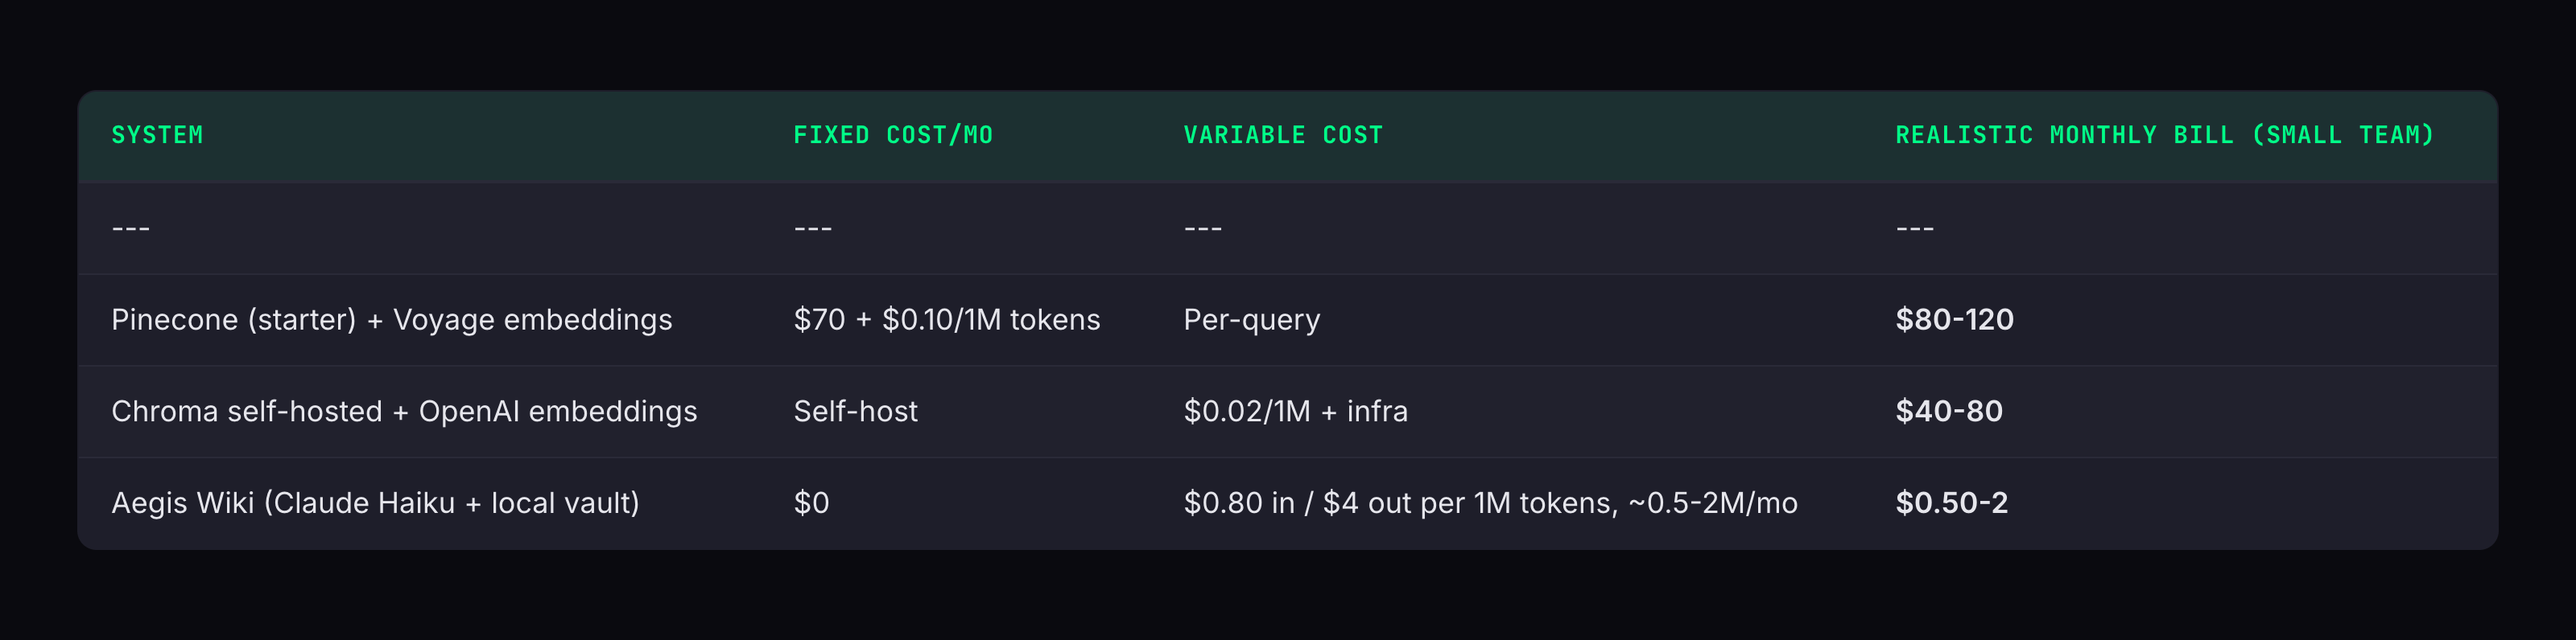
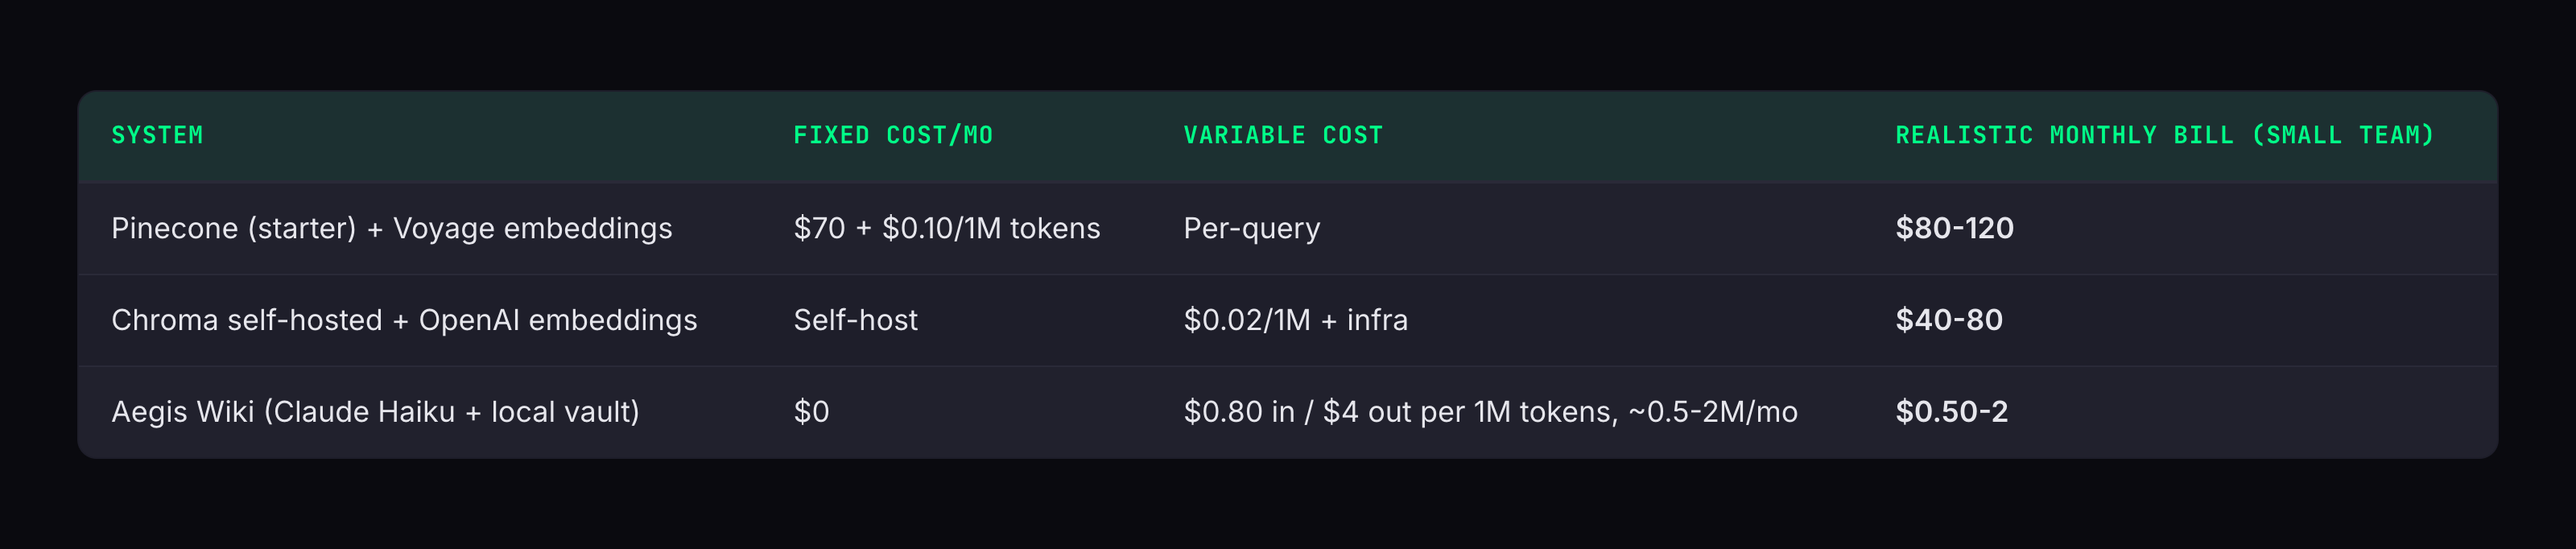
docs(articles): restore tables as PNGs in articles #5, #6, #7
Also fixes a separator-row leak in the renderer that caused a stray '---'
row to render as a data row on every table, and re-renders the earlier
articles' PNGs with the fix.

diff --git a/articles/07-multi-account-guardrails/article.md b/articles/07-multi-account-guardrails/article.md
@@ -100,42 +100,7 @@ These three become inputs to the risk assessment.
 
 Here's the master table Aegis Layer 4 enforces. Each row: an action type, its default risk tier, an AWS-specific example, and the automation behavior.
 
-[IMAGE: risk-tier-matrix.png — 20-row color-coded matrix showing Action Type, Risk Tier (NONE/LOW/MEDIUM/HIGH/BLOCKED), AWS example, and automation behavior. Render as 1600×900 PNG for Medium. Until rendered, the grouped bullets below carry the same information.]
-
-**NONE tier — auto, no approval, no dry-run:**
-
-- **CloudWatch log query** — `filter-log-events` on `/aws/eks/cluster-name`
-- **CloudWatch metric read** — `get-metric-statistics` on EKS pod metrics
-- **Describe resources** — `describe-db-instances`, `describe-clusters`
-- **kubectl get / logs / describe** — e.g. `kubectl get pods -n auth`
-
-**LOW tier — auto-approve with dry-run; post-verify:**
-
-- **kubectl rollout restart (spoke)** — `kubectl rollout restart deploy/auth-service` in a spoke
-- **kubectl scale up (spoke)** — `kubectl scale --replicas=7` (from 3) in a spoke
-
-**MEDIUM tier — Slack approval required:**
-
-- **kubectl scale down (spoke)** — `kubectl scale --replicas=1` (from 5) in a spoke
-- **kubectl delete pod (spoke)** — `kubectl delete pod auth-xxxx`
-- **kubectl rollout undo (spoke)** — roll back to previous ReplicaSet
-
-**HIGH tier — manual only, no AI execution ever:**
-
-- **Terraform apply (any account)** — `terraform apply` on any state file
-- **kubectl delete (non-pod)** — `kubectl delete deployment auth-service`
-- **RDS stop / modify** — `aws rds modify-db-instance`
-- **Any action in hub account** — anything touching `111111111111`, regardless of category
-- **Security Group rule modify** — `ec2 authorize-security-group-ingress`
-
-**BLOCKED tier — hard-coded, never automated:**
-
-- **Any action in security account** — anything touching `555555555555`
-- **IAM policy modify** — `iam put-role-policy`, `iam attach-role-policy`. AI literally cannot attempt this.
-- **S3 public-access config change** — `s3api put-public-access-block`
-- **S3 bucket policy modify** — `s3api put-bucket-policy`
-- **Cross-account IAM role change** — `iam update-assume-role-policy`
-- **KMS key policy modify** — `kms put-key-policy`
+[IMAGE: assets/02-risk-tier-matrix.png — 20-row risk tier matrix mapping specific AWS/kubectl/Terraform actions (log queries, describe calls, kubectl scale/rollout/delete, terraform apply, IAM/S3/KMS modifications, hub/security account access) to five risk tiers (NONE, LOW, MEDIUM, HIGH, BLOCKED) with concrete automation behavior per row — from auto-execute with no approval to hard-coded block where the AI literally cannot emit the action]
 
 A few things to notice:
 
@@ -422,20 +387,7 @@ Here's the kind of story that happens at 09:15 KST on a Monday — the same Mond
 
 ### Timeline
 
-- **09:12:04** — SigNoz fires alert: `auth-service` P99 > 1000ms (threshold 500ms)
-- **09:12:08** — Aegis orchestrator picks up alert, opens investigation `INV-2026-0419-00017`
-- **09:12:10** — Wiki context fetched: 3 pages on auth-service scaling
-- **09:12:12** — Pattern analyzer returns: "Pattern A match — Mon 9AM cold-start, 26 prior occurrences"
-- **09:12:15** — Claude (Sonnet) proposes: scale 3 -> 5 replicas, pre-warm connection pool
-- **09:12:16** — Guardrails engine evaluates: target account `333333333333` (spoke-prod, permitted); action `kubectl_scale` up classifies LOW; account adjustment keeps it LOW (no upgrade); rollback plan provided.
-- **09:12:17** — Pre-validation: dry-run SAFE, IAM simulator ALLOWED, OPA ALLOWED
-- **09:12:17** — Approval: auto-approved (LOW tier, all checks passed)
-- **09:12:18** — Execution: `kubectl scale deployment auth-service --replicas=5`
-- **09:12:19** — Execution succeeded; rollback window armed until 09:27:18
-- **09:12:20** — Post-validation watch started, 10-minute window
-- **09:15:00** — P99 down to 640ms (improving)
-- **09:17:00** — P99 down to 280ms (target reached)
-- **09:22:30** — Post-validation: SUCCESS. Audit record finalized.
+[IMAGE: assets/03-investigation-timeline.png — 18-row timeline table of a Monday 09:12 KST investigation showing every step second-by-second: SigNoz alert fires, wiki context fetched, pattern analyzer match, Claude proposes scale 3→5 + pool pre-warm, guardrails classify LOW, pre-validation passes (dry-run/IAM simulator/OPA), auto-approval, kubectl execution, rollback window armed, post-validation watch, P99 recovers to 280ms, audit record finalized — total AI-operator time 13 seconds, zero human involvement]
 
 Total AI-operator time from alert to mitigation: **13 seconds.**
 Human involvement: zero (because the action was LOW tier in a spoke account, with a valid rollback).
@@ -502,15 +454,7 @@ Four layers. All four have to fail. In practice, the failure mode is "the AI pic
 
 All paths relative to the [JIUNG9/aegis](https://github.com/JIUNG9/aegis) repo. Layer 4 files are planned — coming in Layer 4 per the roadmap.
 
-- **[`apps/ai-engine/guardrails/engine.py`](https://github.com/JIUNG9/aegis)** — Main guardrails orchestrator
-- **[`apps/ai-engine/guardrails/risk_assessor.py`](https://github.com/JIUNG9/aegis)** — Classifies actions into NONE/LOW/MEDIUM/HIGH/BLOCKED
-- **[`apps/ai-engine/guardrails/observation_mode.py`](https://github.com/JIUNG9/aegis)** — Trust-building ladder (Observe / Recommend / Low-Auto / Full-Auto)
-- **[`apps/ai-engine/guardrails/approval_gate.py`](https://github.com/JIUNG9/aegis)** — Slack approval integration for MEDIUM tier
-- **[`apps/ai-engine/guardrails/pre_validator.py`](https://github.com/JIUNG9/aegis)** — Dry-run, IAM simulator, OPA checks
-- **[`apps/ai-engine/guardrails/post_validator.py`](https://github.com/JIUNG9/aegis)** — Metric watch + auto-rollback trigger
-- **[`apps/ai-engine/guardrails/rollback_manager.py`](https://github.com/JIUNG9/aegis)** — Enforces rollback plan; arms rollback window
-- **[`apps/ai-engine/guardrails/audit_logger.py`](https://github.com/JIUNG9/aegis)** — SOC2-compliant decision record writer
-- **[`apps/ai-engine/guardrails/policies/`](https://github.com/JIUNG9/aegis)** — OPA/Rego policies (versioned)
+[IMAGE: assets/04-guardrails-files.png — nine-row file/role table of the Layer 4 guardrails package: engine.py (orchestrator), risk_assessor.py (NONE/LOW/MEDIUM/HIGH/BLOCKED classifier), observation_mode.py (trust-building ladder), approval_gate.py (Slack approvals), pre_validator.py (dry-run/IAM/OPA), post_validator.py (metric watch + rollback trigger), rollback_manager.py, audit_logger.py (SOC2 records), policies/ (OPA/Rego)]
 
 Environment variables the guardrails engine expects:
 

diff --git a/articles/06-monday-patterns/article.md b/articles/06-monday-patterns/article.md
@@ -196,33 +196,15 @@ Here are three that came out of the analyzer — genericized, but the numbers ar
 
 ### Pattern A — "Auth service latency spikes Monday 9-11 AM"
 
-- **Service** — `auth-service`
-- **Window** — Mon 09:00-11:00 KST
-- **Baseline P99** — 180 ms
-- **Hotspot P99** — 1,240 ms
-- **Event count over 180d** — 45 (across ~26 Mondays)
-- **Root cause (suspected)** — Connection pool cold-start + 4x login throughput
-- **Suggested action** — Pre-warm pool at 08:45; pre-scale 3 -> 5 replicas at 08:30
+[IMAGE: assets/02-pattern-a-auth-latency.png — seven-row table describing Pattern A on auth-service: Mon 09:00-11:00 KST window, baseline P99 180ms vs hotspot P99 1,240ms, 45 events across ~26 Mondays in 180d, connection pool cold-start root cause, pre-warm and pre-scale 3→5 action]
 
 ### Pattern B — "Batch job at 02:00 correlates with DB write amplification"
 
-- **Service** — `analytics-worker` -> `postgres-primary`
-- **Window** — Mon 02:00-04:00 KST
-- **Baseline write IOPS** — 2,100
-- **Hotspot write IOPS** — 14,800
-- **Event count over 180d** — 22 (all Mondays; no misses)
-- **Root cause** — Weekly reconcile job rewrites 3 materialized views
-- **Suggested action** — Stagger view rebuilds; move 1 of 3 to Sunday 23:00
+[IMAGE: assets/03-pattern-b-batch-iops.png — seven-row table describing Pattern B on analytics-worker → postgres-primary: Mon 02:00-04:00 KST window, baseline 2,100 write IOPS vs hotspot 14,800, 22 events (all Mondays), weekly reconcile job rebuilding 3 materialized views, stagger rebuilds action]
 
 ### Pattern C — "Traffic drops 70% between 22:00-06:00 KST"
 
-- **Service** — all user-facing
-- **Window** — Daily 22:00-06:00 KST
-- **Peak RPS** — 3,400
-- **Trough RPS** — 1,020
-- **Pattern type** — `idle_window`
-- **Suggested action** — Scheduled rightsizing — drop replica count 40% overnight
-- **Estimated savings** — ~$3,000/month across all spoke accounts
+[IMAGE: assets/04-pattern-c-idle-window.png — seven-row table describing Pattern C idle window on all user-facing services: daily 22:00-06:00 KST window, peak 3,400 RPS vs trough 1,020 RPS, scheduled rightsizing by dropping replicas 40% overnight, ~$3,000/month savings]
 
 Pattern C is the one that makes finance teams smile. The other two are the ones that make on-call engineers smile.
 
@@ -276,10 +258,7 @@ At Coupang, handling 1M+ daily commerce transactions, we learned this the hard w
 
 Six months after shipping the analyzer (well, after I started running it by hand — the full v4.0 Layer 2 is still rolling out), the team's FinOps summary looked like:
 
-- **Monday morning incidents** — from ~27/month to ~6/month. Delta: -78%.
-- **Mean time to mitigation (MTTM) on Mon 9 AM** — from 18 min to 4 min (pre-positioned). Delta: -78%.
-- **Overnight compute cost (22:00-06:00)** — from $4,200/mo to $1,200/mo. Delta: -$3,000/mo.
-- **Auto-scaling "surprise" events** — from frequent to near zero.
+[IMAGE: assets/05-finops-results.png — four-row before/after FinOps results table showing Monday morning incidents (27→6/mo, -78%), MTTM on Mon 9AM (18→4 min, -78%), overnight compute cost ($4,200→$1,200/mo, -$3,000/mo), and auto-scaling surprise events (frequent → near zero)]
 
 The ~$3K/month saving is across our non-production spoke account plus two smaller production services we felt confident scheduling. We haven't done it everywhere — some workloads genuinely don't want to be rightsized on a cron, and the AI's recommendations respect that.
 
@@ -328,11 +307,7 @@ For the AI-cost nerds: this is also the difference between burning Sonnet tokens
 
 The files involved (paths are relative to the [JIUNG9/aegis](https://github.com/JIUNG9/aegis) repo; Layer 2 files are planned — coming in Layer 2 per the roadmap):
 
-- **[`apps/ai-engine/connectors/signoz_client.py`](https://github.com/JIUNG9/aegis)** — HTTP API client for logs, metrics, traces, alerts
-- **[`apps/ai-engine/connectors/alert_fetcher.py`](https://github.com/JIUNG9/aegis)** — Firing alert pull with filters
-- **[`apps/ai-engine/connectors/metric_fetcher.py`](https://github.com/JIUNG9/aegis)** — PromQL range queries
-- **[`apps/ai-engine/connectors/pattern_analyzer.py`](https://github.com/JIUNG9/aegis)** — Time-of-week bucketing + correlation
-- **[`apps/ai-engine/agents/orchestrator.py`](https://github.com/JIUNG9/aegis)** — Wires patterns into Claude's investigation context
+[IMAGE: assets/06-connector-files.png — five-row file/role table listing the Layer 2 SigNoz connector components: signoz_client.py (HTTP API client), alert_fetcher.py (firing alerts), metric_fetcher.py (PromQL range queries), pattern_analyzer.py (time-of-week bucketing), orchestrator.py (wires patterns into Claude)]
 
 Environment variables the connector expects:
 

diff --git a/articles/05-claude-mcp-pager/article.md b/articles/05-claude-mcp-pager/article.md
@@ -158,9 +158,7 @@ The whole loop runs in 60–120 seconds from alert-fire to Slack-card. The slowe
 
 Claude has three model tiers that map naturally to investigation complexity. The AI settings page in Aegis exposes them as **Eco**, **Standard**, and **Deep**.
 
-- **Eco** — Haiku. Wiki synthesis, simple log summaries, routing decisions. ~$0.001 per investigation.
-- **Standard** — Sonnet 4.6. Incident investigation, pattern analysis, remediation proposal. ~$0.08 per investigation.
-- **Deep** — Opus. Multi-service correlation, complex RCAs, novel failure modes. ~$0.25 per investigation.
+[IMAGE: assets/02-model-tier-routing.png — three-row table mapping Eco/Standard/Deep tiers to Claude models (Haiku, Sonnet 4.6, Opus), the investigation types each is used for, and typical per-investigation cost ($0.001 to $0.25)]
 
 The routing logic lives in the token tracker (`services/token_tracker.py` in the existing codebase). It's not a black-box heuristic — it's a decision table:
 
@@ -256,16 +254,7 @@ One pattern I'm watching carefully: the AI has a tendency to over-fetch when a R
 
 Here's the real change from the before-Aegis to the after-Aegis workflow.
 
-- **Alert fires → on-call acknowledges** — 30 sec before, 30 sec after.
-- **Find the right runbook** — 3–8 min before. 0 sec after (wiki context in Slack).
-- **Pull SigNoz logs + metrics** — 4–10 min before. 0 sec after (pre-fetched in context).
-- **Correlate with recent incidents** — 5–15 min before. 0 sec after (pattern analyzer did it).
-- **Form a hypothesis** — 2–5 min before. 0 sec after (in Slack card).
-- **Decide on an action** — 1–3 min before. 15–45 sec after (read card, click).
-- **Execute** — 1–2 min before. 30–90 sec after (auto or Slack-approved).
-- **Verify fix worked** — 3–5 min before. Auto after (post-validator, 60 sec).
-- **Total p50** — **~20 min** before. **~2 min** after.
-- **Total p95 (harder incidents)** — **~45 min** before. **~5 min** after.
+[IMAGE: assets/03-before-after-workflow.png — 10-row workflow comparison table showing each on-call step (acknowledge, find runbook, pull logs/metrics, correlate incidents, form hypothesis, decide, execute, verify) with before (manual, ~20 min p50 / ~45 min p95) vs after (Control Tower, ~2 min p50 / ~5 min p95) timings]
 
 The Control Tower doesn't *solve* the incident faster than a senior SRE can. What it does is eliminate the 18 minutes of ambient toil per alert that come from context-gathering and tab-switching. Compounded over a week, that's hours back.
 

diff --git a/articles/07-multi-account-guardrails/assets/02-risk-tier-matrix.md b/articles/07-multi-account-guardrails/assets/02-risk-tier-matrix.md
@@ -1,0 +1,22 @@
+| # | Action Type | Risk Tier | AWS-Specific Example | Automation Behavior |
+|---|---|---|---|---|
+| 1 | CloudWatch log query | NONE | `filter-log-events` on `/aws/eks/cluster-name` | Auto, no approval, no dry-run |
+| 2 | CloudWatch metric read | NONE | `get-metric-statistics` on EKS pod metrics | Auto, no approval |
+| 3 | Describe resources | NONE | `describe-db-instances`, `describe-clusters` | Auto, no approval |
+| 4 | kubectl get / logs / describe | NONE | `kubectl get pods -n auth` | Auto, no approval |
+| 5 | kubectl rollout restart (spoke) | LOW | `kubectl rollout restart deploy/auth-service` in spoke | Auto-approve with dry-run; post-verify |
+| 6 | kubectl scale up (spoke) | LOW | `kubectl scale --replicas=7` (from 3) in spoke | Auto-approve with dry-run; post-verify |
+| 7 | kubectl scale down (spoke) | MEDIUM | `kubectl scale --replicas=1` (from 5) in spoke | Slack approval required |
+| 8 | kubectl delete pod (spoke) | MEDIUM | `kubectl delete pod auth-xxxx` | Slack approval required |
+| 9 | kubectl rollout undo (spoke) | MEDIUM | Roll back to previous ReplicaSet | Slack approval required |
+| 10 | Terraform apply (any account) | HIGH | `terraform apply` on any state file | Manual only, no AI execution ever |
+| 11 | kubectl delete (non-pod) | HIGH | `kubectl delete deployment auth-service` | Manual only |
+| 12 | RDS stop / modify | HIGH | `aws rds modify-db-instance` | Manual only |
+| 13 | Any action in hub account | HIGH | Anything touching `111111111111` | Manual only, regardless of category |
+| 14 | Any action in security account | BLOCKED | Anything touching `555555555555` | Never automated, ever |
+| 15 | IAM policy modify | BLOCKED | `iam put-role-policy`, `iam attach-role-policy` | Hard-coded block — AI literally cannot attempt this |
+| 16 | S3 public-access config change | BLOCKED | `s3api put-public-access-block` | Hard-coded block |
+| 17 | S3 bucket policy modify | BLOCKED | `s3api put-bucket-policy` | Hard-coded block |
+| 18 | Cross-account IAM role change | BLOCKED | `iam update-assume-role-policy` | Hard-coded block |
+| 19 | Security Group rule modify | HIGH | `ec2 authorize-security-group-ingress` | Manual only |
+| 20 | KMS key policy modify | BLOCKED | `kms put-key-policy` | Hard-coded block |

diff --git a/articles/07-multi-account-guardrails/assets/03-investigation-timeline.md b/articles/07-multi-account-guardrails/assets/03-investigation-timeline.md
@@ -1,0 +1,20 @@
+| Time (KST) | Event |
+|---|---|
+| 09:12:04 | SigNoz fires alert: `auth-service` P99 > 1000ms (threshold 500ms) |
+| 09:12:08 | Aegis orchestrator picks up alert, opens investigation `INV-2026-0419-00017` |
+| 09:12:10 | Wiki context fetched: 3 pages on auth-service scaling |
+| 09:12:12 | Pattern analyzer returns: "Pattern A match — Mon 9AM cold-start, 26 prior occurrences" |
+| 09:12:15 | Claude (Sonnet) proposes: scale 3 -> 5 replicas, pre-warm connection pool |
+| 09:12:16 | Guardrails engine evaluates: |
+| 09:12:16 |   - Target account: `333333333333` (spoke-prod) — spoke, permitted |
+| 09:12:16 |   - Action type: `kubectl_scale` up — LOW |
+| 09:12:16 |   - Account adjustment: LOW (no upgrade) |
+| 09:12:16 |   - Rollback plan: provided |
+| 09:12:17 | Pre-validation: dry-run SAFE, IAM simulator ALLOWED, OPA ALLOWED |
+| 09:12:17 | Approval: auto-approved (LOW tier, all checks passed) |
+| 09:12:18 | Execution: `kubectl scale deployment auth-service --replicas=5` |
+| 09:12:19 | Execution succeeded; rollback window armed until 09:27:18 |
+| 09:12:20 | Post-validation watch started, 10-minute window |
+| 09:15:00 | P99 down to 640ms (improving) |
+| 09:17:00 | P99 down to 280ms (target reached) |
+| 09:22:30 | Post-validation: SUCCESS. Audit record finalized. |

diff --git a/articles/07-multi-account-guardrails/assets/04-guardrails-files.md b/articles/07-multi-account-guardrails/assets/04-guardrails-files.md
@@ -1,0 +1,11 @@
+| File | Role |
+|---|---|
+| [`apps/ai-engine/guardrails/engine.py`](https://github.com/JIUNG9/aegis) | Main guardrails orchestrator |
+| [`apps/ai-engine/guardrails/risk_assessor.py`](https://github.com/JIUNG9/aegis) | Classifies actions into NONE/LOW/MEDIUM/HIGH/BLOCKED |
+| [`apps/ai-engine/guardrails/observation_mode.py`](https://github.com/JIUNG9/aegis) | Trust-building ladder (Observe / Recommend / Low-Auto / Full-Auto) |
+| [`apps/ai-engine/guardrails/approval_gate.py`](https://github.com/JIUNG9/aegis) | Slack approval integration for MEDIUM tier |
+| [`apps/ai-engine/guardrails/pre_validator.py`](https://github.com/JIUNG9/aegis) | Dry-run, IAM simulator, OPA checks |
+| [`apps/ai-engine/guardrails/post_validator.py`](https://github.com/JIUNG9/aegis) | Metric watch + auto-rollback trigger |
+| [`apps/ai-engine/guardrails/rollback_manager.py`](https://github.com/JIUNG9/aegis) | Enforces rollback plan; arms rollback window |
+| [`apps/ai-engine/guardrails/audit_logger.py`](https://github.com/JIUNG9/aegis) | SOC2-compliant decision record writer |
+| [`apps/ai-engine/guardrails/policies/`](https://github.com/JIUNG9/aegis) | OPA/Rego policies (versioned) |

diff --git a/articles/05-claude-mcp-pager/assets/03-before-after-workflow.md b/articles/05-claude-mcp-pager/assets/03-before-after-workflow.md
@@ -1,0 +1,12 @@
+| Step | Before (manual) | After (with Control Tower) |
+|---|---|---|
+| Alert fires → on-call acknowledges | 30 sec | 30 sec |
+| Find the right runbook | 3–8 min | 0 sec (wiki context in Slack) |
+| Pull SigNoz logs + metrics | 4–10 min | 0 sec (pre-fetched in context) |
+| Correlate with recent incidents | 5–15 min | 0 sec (pattern analyzer did it) |
+| Form a hypothesis | 2–5 min | 0 sec (in Slack card) |
+| Decide on an action | 1–3 min | 15–45 sec (read card, click) |
+| Execute | 1–2 min | 30–90 sec (auto or Slack-approved) |
+| Verify fix worked | 3–5 min | Auto (post-validator, 60 sec) |
+| **Total p50** | **~20 min** | **~2 min** |
+| **Total p95 (harder incidents)** | **~45 min** | **~5 min** |

diff --git a/articles/06-monday-patterns/assets/06-connector-files.md b/articles/06-monday-patterns/assets/06-connector-files.md
@@ -1,0 +1,7 @@
+| File | Role |
+|---|---|
+| [`apps/ai-engine/connectors/signoz_client.py`](https://github.com/JIUNG9/aegis) | HTTP API client — logs, metrics, traces, alerts |
+| [`apps/ai-engine/connectors/alert_fetcher.py`](https://github.com/JIUNG9/aegis) | Firing alert pull with filters |
+| [`apps/ai-engine/connectors/metric_fetcher.py`](https://github.com/JIUNG9/aegis) | PromQL range queries |
+| [`apps/ai-engine/connectors/pattern_analyzer.py`](https://github.com/JIUNG9/aegis) | Time-of-week bucketing + correlation |
+| [`apps/ai-engine/agents/orchestrator.py`](https://github.com/JIUNG9/aegis) | Wires patterns into Claude's investigation context |

diff --git a/articles/06-monday-patterns/assets/03-pattern-b-batch-iops.md b/articles/06-monday-patterns/assets/03-pattern-b-batch-iops.md
@@ -1,0 +1,9 @@
+| Field | Value |
+|---|---|
+| Service | `analytics-worker` -> `postgres-primary` |
+| Window | Mon 02:00-04:00 KST |
+| Baseline write IOPS | 2,100 |
+| Hotspot write IOPS | 14,800 |
+| Event count over 180d | 22 (all Mondays; no misses) |
+| Root cause | Weekly reconcile job rewrites 3 materialized views |
+| Suggested action | Stagger view rebuilds; move 1 of 3 to Sunday 23:00 |

diff --git a/articles/05-claude-mcp-pager/assets/02-model-tier-routing.md b/articles/05-claude-mcp-pager/assets/02-model-tier-routing.md
@@ -1,0 +1,5 @@
+| Tier | Model | Used For | Typical Cost per Investigation |
+|---|---|---|---|
+| **Eco** | Haiku | Wiki synthesis, simple log summaries, routing decisions | ~$0.001 |
+| **Standard** | Sonnet 4.6 | Incident investigation, pattern analysis, remediation proposal | ~$0.08 |
+| **Deep** | Opus | Multi-service correlation, complex RCAs, novel failure modes | ~$0.25 |

diff --git a/articles/06-monday-patterns/assets/02-pattern-a-auth-latency.md b/articles/06-monday-patterns/assets/02-pattern-a-auth-latency.md
@@ -1,0 +1,9 @@
+| Field | Value |
+|---|---|
+| Service | `auth-service` |
+| Window | Mon 09:00-11:00 KST |
+| Baseline P99 | 180 ms |
+| Hotspot P99 | 1,240 ms |
+| Event count over 180d | 45 (across ~26 Mondays) |
+| Root cause (suspected) | Connection pool cold-start + 4x login throughput |
+| Suggested action | Pre-warm pool at 08:45; pre-scale 3 -> 5 replicas at 08:30 |

diff --git a/articles/06-monday-patterns/assets/05-finops-results.md b/articles/06-monday-patterns/assets/05-finops-results.md
@@ -1,0 +1,6 @@
+| Category | Before | After | Delta |
+|---|---|---|---|
+| Monday morning incidents | ~27/month | ~6/month | -78% |
+| Mean time to mitigation (MTTM) on Mon 9 AM | 18 min | 4 min (pre-positioned) | -78% |
+| Overnight compute cost (22:00-06:00) | $4,200/mo | $1,200/mo | -$3,000/mo |
+| Auto-scaling "surprise" events | frequent | near zero | n/a |
